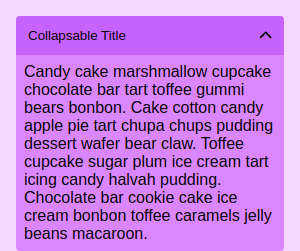
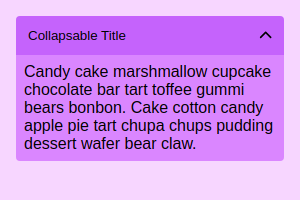
caps

diff --git a/src/components/Collapsable/index.stories.js b/src/components/Collapsable/index.stories.js
@@ -10,8 +10,6 @@ export const Collapsable = {
     title: 'Collapsable Title',
     children: `Candy cake marshmallow cupcake chocolate bar tart toffee gummi \
     bears bonbon. Cake cotton candy apple pie tart chupa chups pudding dessert \
-    wafer bear claw. Toffee cupcake sugar plum ice cream tart icing candy \
-    halvah pudding. Chocolate bar cookie cake ice cream bonbon toffee caramels \
-    jelly beans macaroon.`,
+    wafer bear claw.`,
   },
 };
